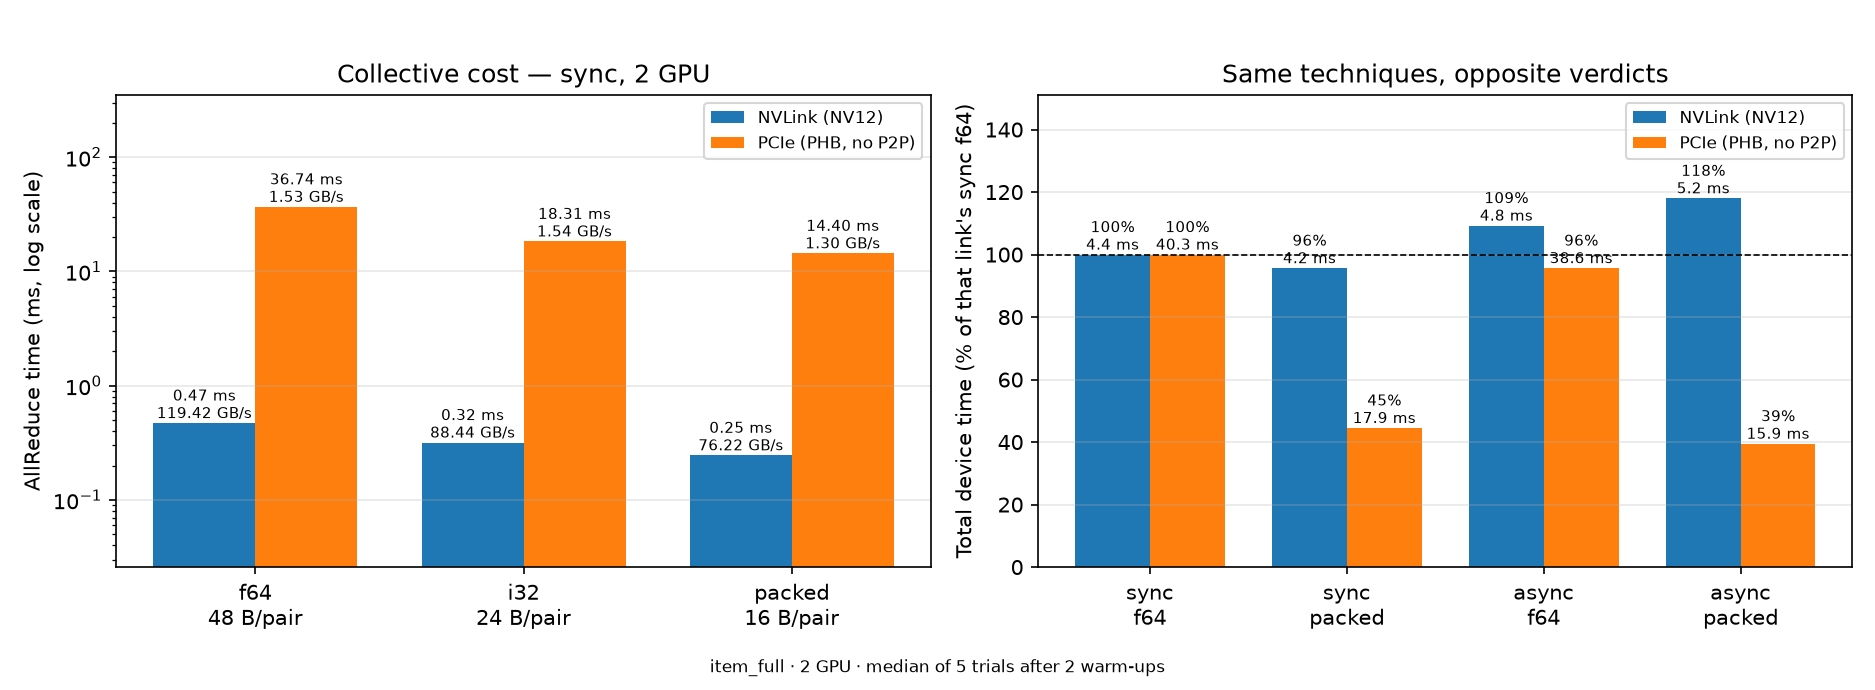
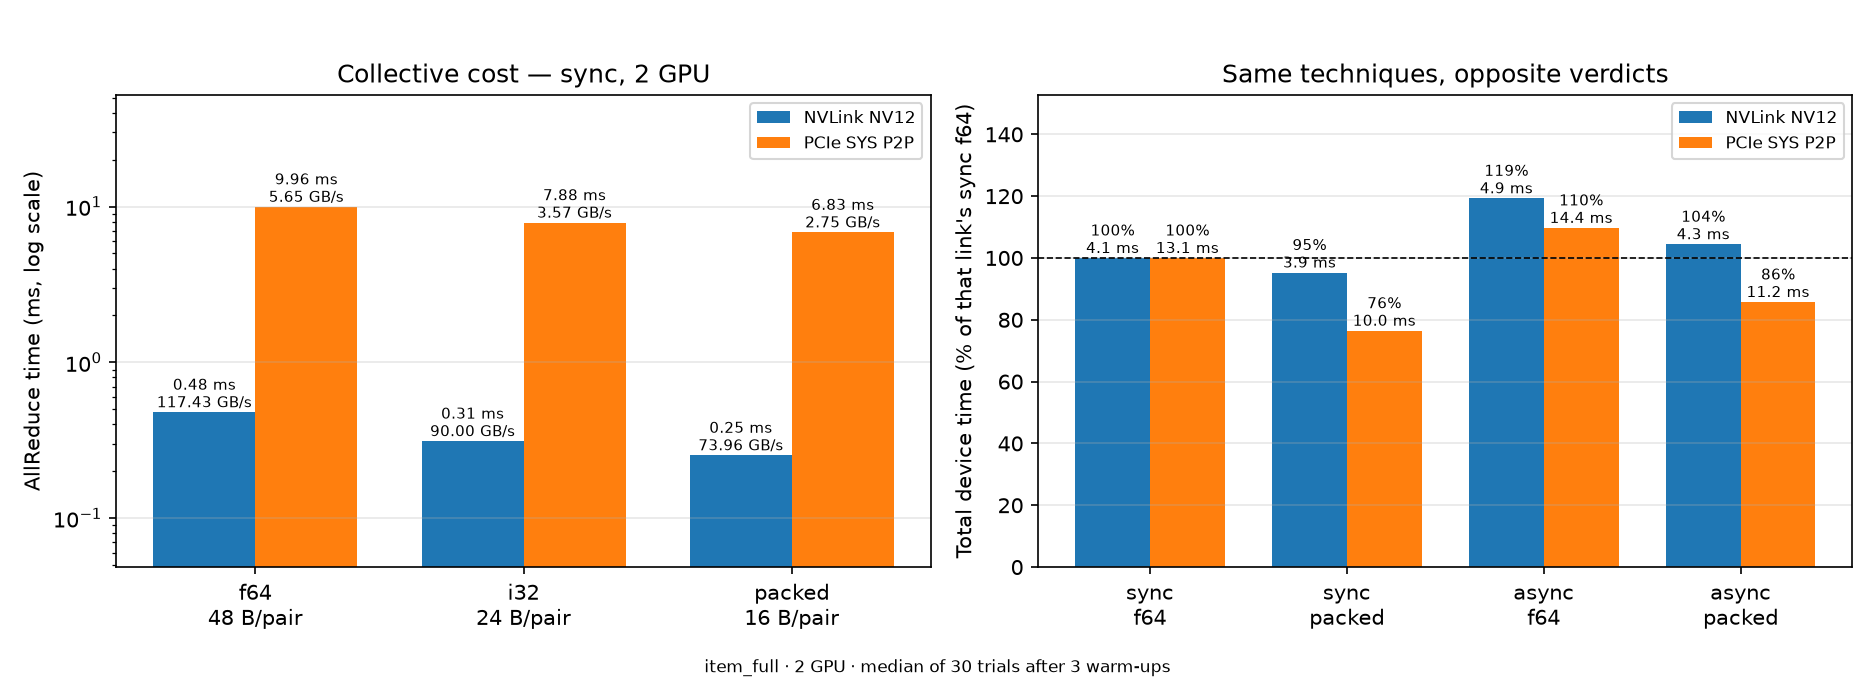
Redraw every figure from the 30-trial runs, with IQR whiskers
All six figures were still drawn from the 5-trial runs of Aug 28-29, and the
30-trial redraws from earlier today sat in a subdirectory that nothing
referenced. Worse, gpu_comparison and payload_comparison plotted bare medians,
so the study's own central caveat -- async 2-GPU carries 12-44% IQR while sync
reproduces to 0.3% -- was invisible in exactly the charts a reader looks at
first.

make_figures.py now draws asymmetric IQR whiskers from p25/p75, falling back to
min/max for bench files written before those fields existed so older runs still
plot. gpu_comparison also moves to a log y-axis: the span is 1258 ms to 4.1 ms,
and on a linear axis every GPU bar collapsed onto the baseline and took its
error bar with it. Both changes are legibility fixes, not decoration -- the
async bar is now visibly less certain than its neighbours, which is the point.

Sources are chosen per figure and printed in each figure's footer:

  openmp_scaling, mpi_scaling, cpu_runtime   M5, bench_20260904_123357
  gpu_comparison, payload_comparison         NVLink, bench_20260905_024708
  interconnect_comparison                    bench_20260904_200900 + _211956

The interconnect pair is deliberately the Sep 4 hosts rather than today's: the
PCIe host measured this morning agreed on medians to 0.08% but carried 3-8x the
spread on its 2-GPU rows, so it represents the regime less fairly.

The subdirectory of interim redraws is removed now that the tracked figures are
current.

diff --git a/engine/bench/make_figures.py b/engine/bench/make_figures.py
@@ -25,6 +25,32 @@ PAYLOAD_LABEL = {"f64": "f64 (6x float64)", "i32": "i32 (6x int32)",
                  "packed": "packed (2x uint64)"}
 
 
+def iqr_err(rec):
+    """Asymmetric [lower, upper] error from p25/p75 when the run recorded them.
+
+    Runs before 2026-09-04 have no quartiles; fall back to min/max so older
+    bench files still plot, and return None only when neither exists. Without
+    this the async 2-GPU bars look as settled as the sync ones, and they are
+    not -- they carry 12-44% IQR against sync's 0.3%.
+    """
+    m = rec["median_s"]
+    lo = rec.get("p25_s")
+    hi = rec.get("p75_s")
+    if lo is None or hi is None:
+        lo, hi = rec.get("min_s"), rec.get("max_s")
+    if lo is None or hi is None:
+        return None
+    return [max(0.0, m - lo), max(0.0, hi - m)]
+
+
+def err_pair(recs):
+    """Column-wise [[lower...],[upper...]] for a list of records, or None."""
+    es = [iqr_err(r) for r in recs]
+    if any(e is None for e in es):
+        return None
+    return [[e[0] for e in es], [e[1] for e in es]]
+
+
 def nccl_name(by_name, mode, gpus, payload):
     """Resolve an nccl config across the pre/post --payload naming.
 
@@ -233,13 +259,20 @@ def main():
         labels = (["serial", f"OMP best ({best_omp[1]}t)"]
                   + [lab for _, lab in gpu_specs])
         med = [by_name[n]["median_s"] for n in names]
-        bars = ax.bar(labels, med)
-        for b, m in zip(bars, med):
-            ax.text(b.get_x() + b.get_width() / 2, m, f"{m*1e3:.1f} ms",
+        e = err_pair([by_name[n] for n in names])
+        bars = ax.bar(labels, med, yerr=e, capsize=4,
+                      error_kw={"ecolor": "0.25", "lw": 1.2})
+        for b, m, n in zip(bars, med, names):
+            top = m + (iqr_err(by_name[n]) or [0, 0])[1]
+            ax.text(b.get_x() + b.get_width() / 2, top, f"{m*1e3:.1f} ms",
                     ha="center", va="bottom", fontsize=8)
-        ax.set_ylabel("Compute time (s)")
+        # Log scale is not decoration here: the span is 1258 ms to 4.1 ms, so a
+        # linear axis flattens every GPU bar to the baseline and hides the IQR
+        # whiskers that are the point of showing them.
+        ax.set_yscale("log")
+        ax.set_ylabel("Compute time (s, log scale)")
         ax.set_title(f"CPU vs GPU backend latency — {fixture}")
-        ax.grid(alpha=0.3, axis="y")
+        ax.grid(alpha=0.3, axis="y", which="both")
         plt.setp(ax.get_xticklabels(), rotation=20, ha="right")
         fig.suptitle(src, y=0.02, fontsize=8, va="bottom")
         fig.tight_layout(rect=(0, 0.05, 1, 1))
@@ -263,10 +296,14 @@ def main():
         xs = range(len(combos))
         for i, p in enumerate(present):
             off = (i - (len(present) - 1) / 2) * width
-            vals = [by_name[nccl_name(by_name, m, g, p)]["median_s"] * 1e3
-                    for m, g in combos]
+            recs = [by_name[nccl_name(by_name, m, g, p)] for m, g in combos]
+            vals = [r["median_s"] * 1e3 for r in recs]
+            e = err_pair(recs)
+            if e is not None:
+                e = [[v * 1e3 for v in e[0]], [v * 1e3 for v in e[1]]]
             bars = ax1.bar([x + off for x in xs], vals, width,
-                           label=PAYLOAD_LABEL[p])
+                           label=PAYLOAD_LABEL[p], yerr=e, capsize=3,
+                           error_kw={"ecolor": "0.25", "lw": 1.0})
             for b, v in zip(bars, vals):
                 ax1.text(b.get_x() + b.get_width() / 2, v, f"{v:.2f}",
                          ha="center", va="bottom", fontsize=7)

diff --git a/README.md b/README.md
@@ -95,6 +95,11 @@ collectives), speedup vs same-machine serial.
 
 ![CPU vs GPU backend latency on item_full](results/figures/gpu_comparison.png)
 
+Log scale, because the span is 1258 ms to 4.1 ms. Whiskers are the
+interquartile range over 30 trials: note that `NCCL async 2 GPU` has a
+visibly wider one than every other bar, which is the noise finding below
+made visible rather than argued.
+
 Key takeaways:
 
 - **262-312x over one CPU core**, ~17-20x over the best 16-thread OpenMP
@@ -126,17 +131,22 @@ path.
 
 </details>
 
-OpenMP scaling (M5; the 4→8t knee is the P-core/E-core boundary):
+OpenMP scaling (M5, 30 trials; the 4→8t knee is the P-core/E-core boundary —
+and the Sep. 4th update shows that knee, not workload skew, is most of what
+dynamic scheduling buys):
 
 ![OpenMP speedup and efficiency](results/figures/openmp_scaling.png)
 
-MPI scaling (M5; the AllReduce share grows to ~13% at 8 ranks — the same
-tensor NVLink moves in 0.47 ms):
+MPI scaling (M5, 30 trials; the AllReduce share grows to ~13% at 8 ranks on
+`item_full` — but see the Sep. 4th update, where at 9,054 pairs it reaches
+83% and MPI turns net slower than serial):
 
 ![MPI strong scaling and communication fraction](results/figures/mpi_scaling.png)
 
-Collective payload compression (A100 pod; right panel is the one that matters
-— the collective shrinks 1.9x, but it was only 10.7% of the iteration):
+Collective payload compression (A100 NVLink pod, 30 trials; right panel is the
+one that matters — the collective shrinks 1.9x, but it was only ~11% of the
+iteration. In the left panel the `async 2 GPU` group is the only one whose
+IQR whiskers are wide enough to see):
 
 ![AllReduce payload comparison](results/figures/payload_comparison.png)
 
@@ -367,6 +377,7 @@ only annotated:
 | *Layout* | "4 exported workloads", 4 tools | 6 workloads + 5 domain fixtures, 10 tools |
 | *Three regimes* | blamed async's shortfall on chunking cost | superseded note: chunking is 1.23x here; the cause was stream occupancy |
 | this section's finalize result | quoted −11.1% / −16.4% as settled | ten A/B measurements, sign reproducible, magnitude not |
+| all six figures | drawn from 5-trial runs (Aug 28–29), no error bars on the GPU charts | redrawn from the 30-trial runs; `gpu_comparison` and `payload_comparison` now carry IQR whiskers, and `gpu_comparison` moved to a log axis |
 
 The same two corrections were applied to [docs/analysis.md](docs/analysis.md).
 Nothing in the *Results* tables was restated: those numbers stand as measured,
